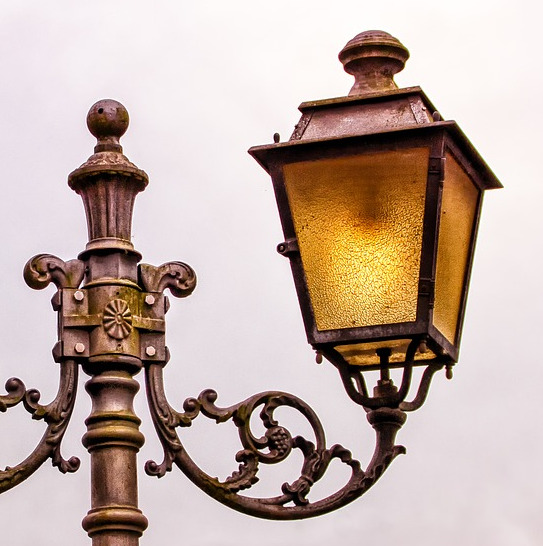
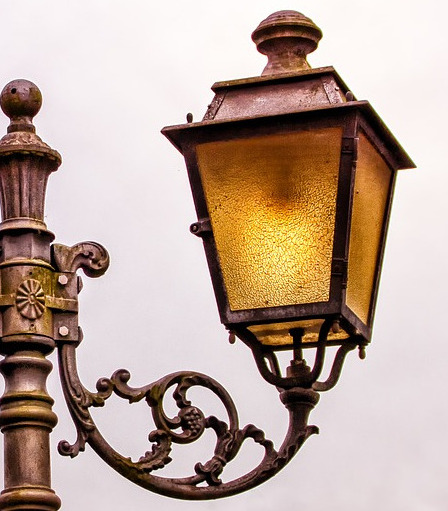
chanbed image in mobile version of fanaria.html

diff --git a/fanaria.html b/fanaria.html
@@ -96,7 +96,7 @@
         <picture>
           <source
             media="(max-width: 600px)"
-            srcset="/resources/images/Images/store-front-mobile-1.jpg"
+            srcset="/resources/images/Images/fanaria-hero-mobile.jpg"
           />
           <img
             class="about-image img-liston"
@@ -150,7 +150,7 @@
       </div>
 
       <p>
-        Web Design and Development by
+        Web Design andDevelopment by
         <a href="https://www.linkedin.com/in/anita-angelidou-549294231/"
           >Anita Angelidou</a
         >
